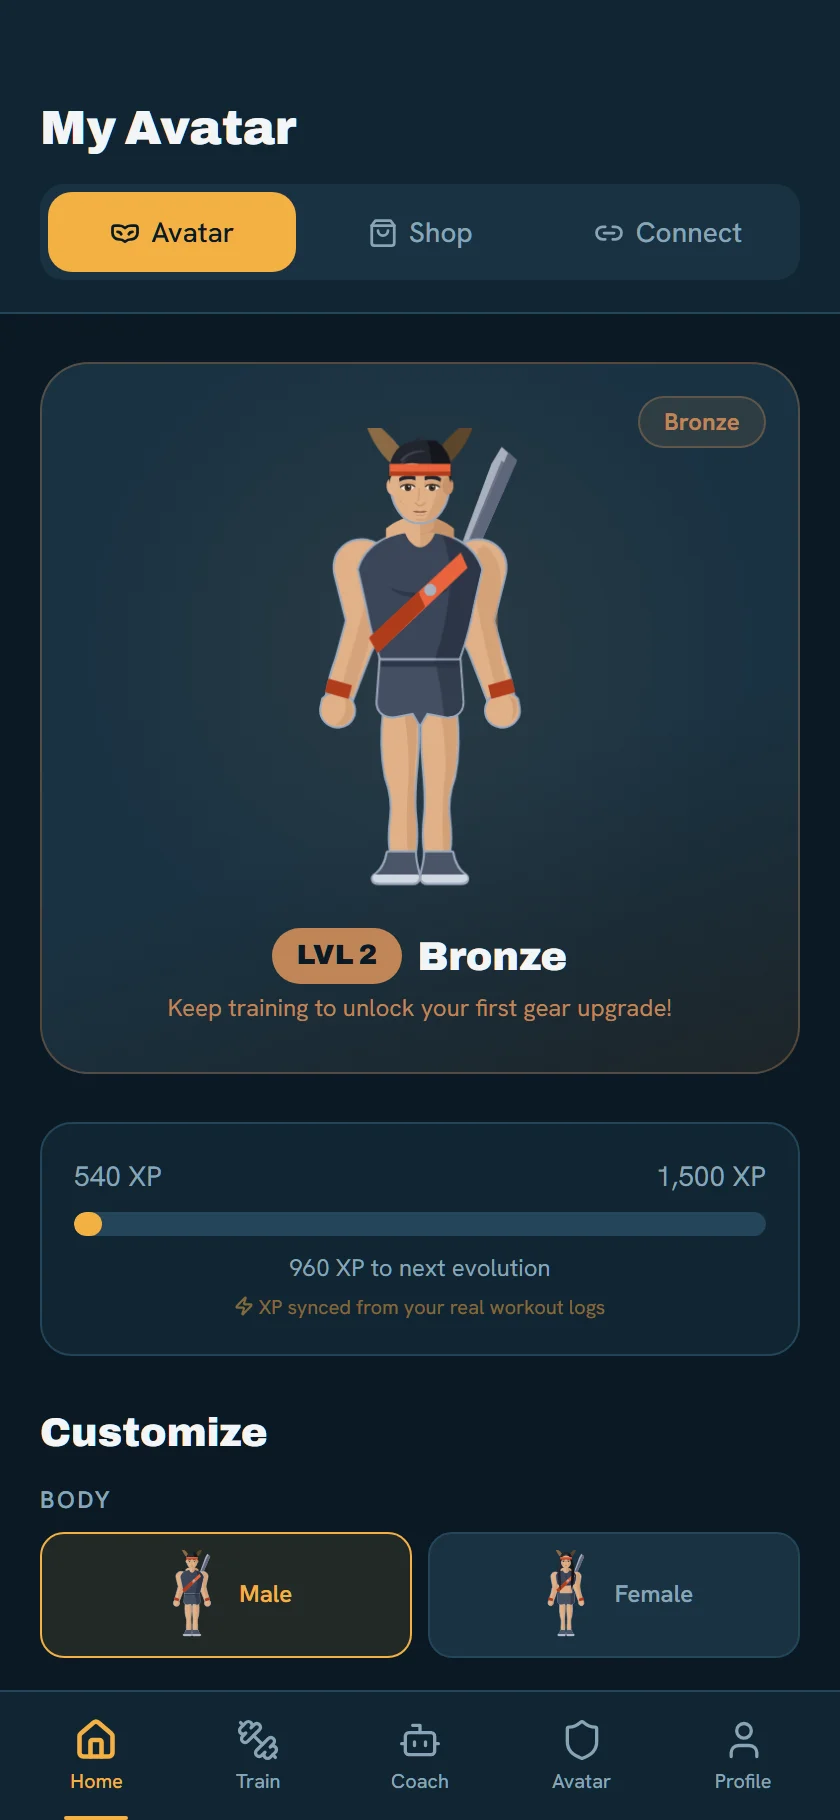
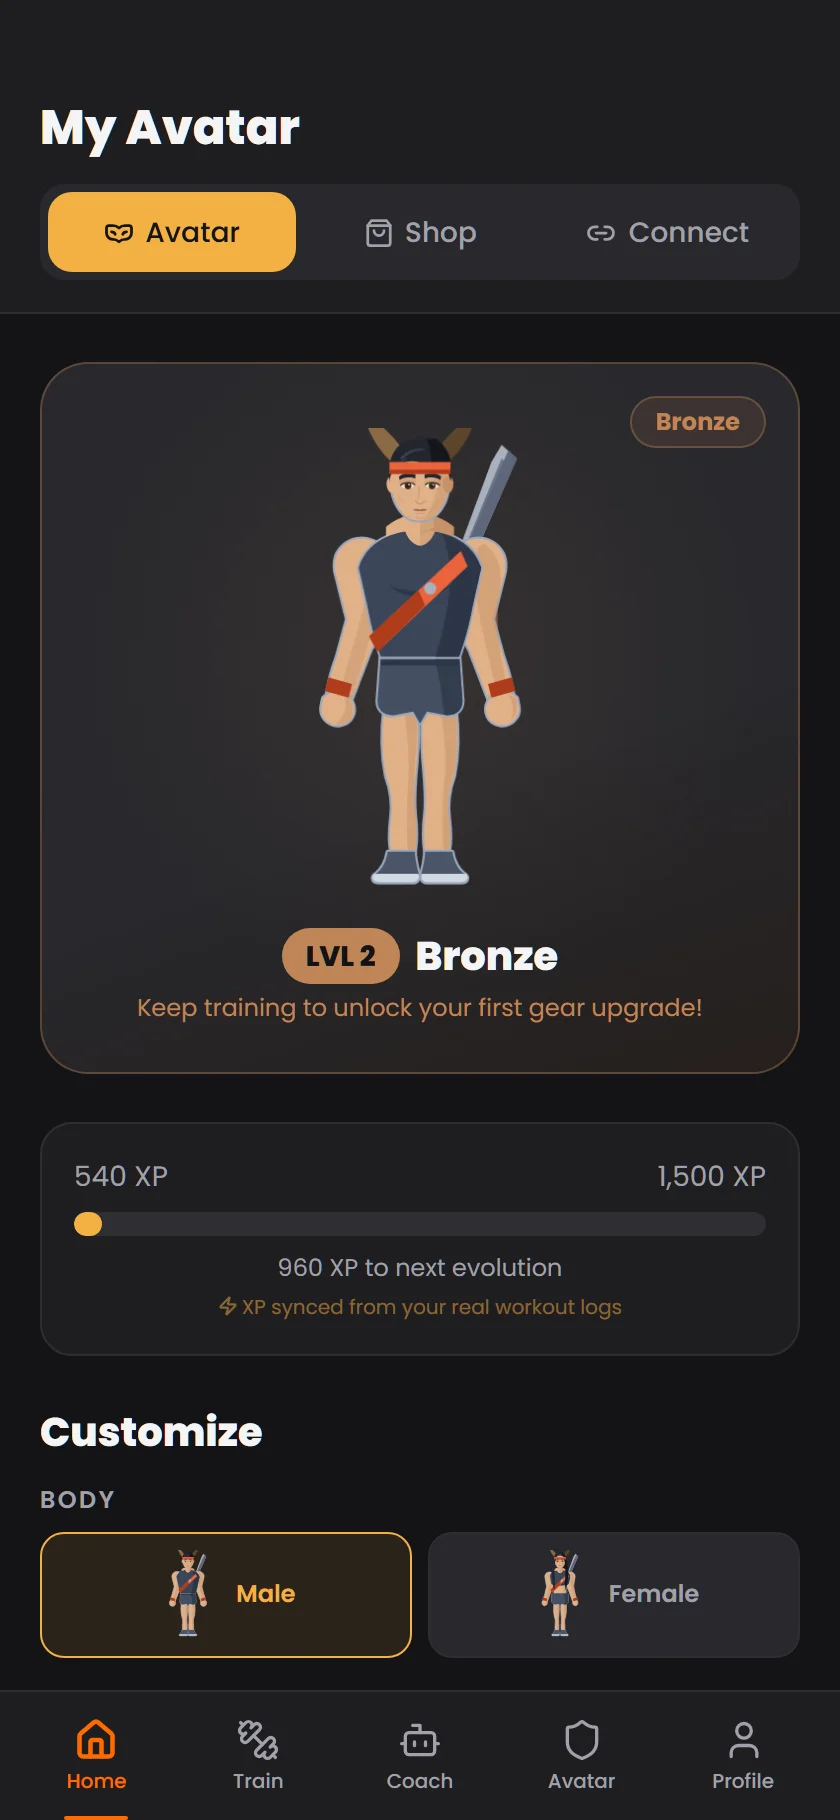
feat: Ignition redesign for the marketing site
Direction A ("Ignition"), shared with the app (plan: app repo
docs/IGNITION_ROLLOUT.md).

- Tokens: charcoal grounds, orange heat, a red accent and the action
  gradient; gold stays #F4B044 for XP and figures. Ratios recorded in
  tokens.css; all pass AA on every ground.
- Type: self-hosted Poppins (latin subset, 400 to 800) replaces Archivo
  and Hanken Grotesk; headings move to sentence case. CSP and GDPR
  posture unchanged.
- Primary calls to action use .gf-cta (white on the gradient, 4.8:1).
- Hero: the app screenshot is replaced by the avatar inside its XP
  ring, rendered from the app's own rig, with the workout moments as
  chips. Same copy and calls to action. The orange headline phrase is
  inline-block: the clip-path wipe otherwise clipped its second line.
- public/screens regenerated from the redesigned app.
  capture-screens.mjs waits for the Turnstile token and no longer waits
  for network idle, which the captcha iframe never reaches.
- a11y.spec.ts judges contrast on the settled page: it waits for finite,
  time-based animations (capped at 3s) so a scan landing mid-fade no
  longer flakes (it failed about 1 run in 4 on the home route).
- theme-color and DESIGN.md follow the new system.

Checks: astro check 0 errors, build, Playwright 199 passed / 2 skipped
(WebKit keyboard tests by design), npm audit 0.

diff --git a/src/styles/global.css b/src/styles/global.css
@@ -1,8 +1,12 @@
-/* Self-hosted via @fontsource, bundled by Astro — no third-party font request.
-   Archivo carries a width axis (62-125%), which is what gives the display face
-   its expanded, engineered proportion. */
-@import "@fontsource-variable/archivo/wdth.css";
-@import "@fontsource-variable/hanken-grotesk/wght.css";
+/* Self-hosted via @fontsource, bundled by Astro: no third-party font request,
+   so the CSP and the GDPR posture are unchanged. Ignition sets everything in
+   Poppins, with JetBrains Mono for figures. Only the latin subset of each
+   weight is imported; a weight not listed here falls back to the nearest. */
+@import "@fontsource/poppins/latin-400.css";
+@import "@fontsource/poppins/latin-500.css";
+@import "@fontsource/poppins/latin-600.css";
+@import "@fontsource/poppins/latin-700.css";
+@import "@fontsource/poppins/latin-800.css";
 @import "@fontsource/jetbrains-mono/500.css";
 
 html {
@@ -26,14 +30,23 @@ body {
   -webkit-font-smoothing: antialiased;
 }
 
+/* Ignition headings are sentence case in Poppins 800. The expanded Archivo
+   capitals of the navy system are retired; components that set a short
+   label in caps still do so explicitly with `uppercase`. */
 h1, h2, h3 {
   font-family: var(--font-display);
-  font-weight: 900;
-  font-stretch: 118%;
-  text-transform: uppercase;
+  font-weight: 800;
   letter-spacing: -0.03em;
-  line-height: 0.95;
+  line-height: 1.05;
   text-wrap: balance;
+}
+
+/* The Ignition action gradient for primary calls to action. background-color
+   is the fallback a forced-colors or print context sees. */
+.gf-cta {
+  background-color: var(--color-gf-cta-to);
+  background-image: linear-gradient(110deg, var(--color-gf-cta-from), var(--color-gf-cta-to));
+  color: #FFFFFF;
 }
 
 :focus-visible {
@@ -54,9 +67,9 @@ h1, h2, h3 {
    Motion
 
    Same thesis as the app: GameFit is a fill-and-threshold system, so
-   "fill" is the signature move. Here that means the gold half of the
+   "fill" is the signature move. Here that means the orange half of the
    headline wipes in left to right rather than fading, which is the XP
-   meter applied to type.
+   meter applied to type, and the hero's XP ring draws to its value.
 
    This is a persuade surface, so it gets ONE rehearsed sequence on the
    hero and one stagger on the rank ladder, which is genuinely a list you
@@ -83,6 +96,18 @@ h1, h2, h3 {
     animation: gf-lift 560ms cubic-bezier(0.16, 1, 0.3, 1) both;
     animation-delay: calc(var(--gf-i, 0) * 90ms + 120ms);
   }
+
+  /* Ignition hero. The ring's resting stroke-dashoffset is its real value;
+     this only draws it in from empty, so a blocked animation still shows
+     the right arc. The orbit and the chip float are the ambient layer:
+     slow enough to read as idle, not as a loading state. */
+  @keyframes gf-ring { from { stroke-dashoffset: var(--gf-ring-from); } }
+  @keyframes gf-spin { to { transform: rotate(360deg); } }
+  @keyframes gf-float { 0%, 100% { transform: translateY(0); } 50% { transform: translateY(-8px); } }
+
+  .gf-ring-draw { animation: gf-ring 1.2s cubic-bezier(0.16, 1, 0.3, 1) 400ms both; }
+  .gf-orbit { transform-origin: 220px 220px; animation: gf-spin 80s linear infinite; }
+  .gf-float { animation: gf-float 5s ease-in-out var(--gf-f, 0s) infinite; }
 
   @supports (animation-timeline: view()) {
     .gf-rank-step {

diff --git a/src/styles/tokens.css b/src/styles/tokens.css
@@ -1,23 +1,30 @@
 @import "tailwindcss";
 
 @theme {
-  /* Ratios against --color-gf-bg (#0B1A24), WCAG 2.1:
-     text 16.15 · muted 6.83 · gold 9.38 · ember 5.18 · success 6.08 · error 5.17.
-     All pass AA for body text. Ember measures 3.90 on --color-gf-elevated, so
-     on that surface it is for fills and text >=18px only. */
-  --color-gf-bg: #0B1A24;
-  --color-gf-surface: #112532;
-  --color-gf-elevated: #1A3242;
-  --color-gf-border: #24455A;
-  --color-gf-text: #F2F5F7;
-  --color-gf-muted: #88A5B7;
+  /* Ignition (owner-approved 2026-09-24; app repo docs/IGNITION_ROLLOUT.md).
+     Ratios against --color-gf-bg (#141416), WCAG 2.1: text 16.9 · muted 7.1 ·
+     gold 9.8 · ember 6.5 · slate 8.7 · success 8.1 · error 5.4. All pass AA
+     for body text; on --color-gf-elevated ember is 5.2 and muted 5.7.
+     Same values as the app's dark theme in src/index.css. */
+  --color-gf-bg: #141416;
+  --color-gf-surface: #1E1E21;
+  --color-gf-elevated: #28282C;
+  --color-gf-border: #2E2E33;
+  --color-gf-text: #F5F5F4;
+  --color-gf-muted: #A1A1AA;
   --color-gf-gold: #F4B044;
-  --color-gf-ember: #E0680E;
+  --color-gf-ember: #FF6B00;
+  --color-gf-red: #E53E3E;
   --color-gf-slate: #7FBBD4;
   --color-gf-success: #5FBF7C;
   --color-gf-error: #E5614A;
 
-  /* Rank tier colours — identical to the shipped app's TIER_CONFIG in
+  /* The action gradient. White text is 4.85:1 on the red end and 4.81:1 on
+     the orange end. Primary calls to action only; never destructive. */
+  --color-gf-cta-from: #D92B2B;
+  --color-gf-cta-to: #C8470E;
+
+  /* Rank tier colors — identical to the shipped app's TIER_CONFIG in
      src/components/avatar/tiers.js, so the site's emblems and the product's
      emblems are the same object. Change both together.
      Apex moved off violet (#9664FF), which measured 3.36:1 and failed AA. */
@@ -27,8 +34,8 @@
   --color-tier-platinum: #7FBBD4;
   --color-tier-apex: #E0680E;
 
-  --font-display: "Archivo Variable", ui-sans-serif, system-ui, sans-serif;
-  --font-body: "Hanken Grotesk Variable", ui-sans-serif, system-ui, sans-serif;
+  --font-display: "Poppins", ui-sans-serif, system-ui, sans-serif;
+  --font-body: "Poppins", ui-sans-serif, system-ui, sans-serif;
   --font-mono: "JetBrains Mono", ui-monospace, monospace;
 
   /* Display ceiling lowered from 6.5rem: at 9vw the old hero ran to five lines

diff --git a/tests/a11y.spec.ts b/tests/a11y.spec.ts
@@ -5,6 +5,25 @@ import { ROUTES } from './routes';
 for (const route of ROUTES) {
   test(`${route} has no accessibility violations`, async ({ page }) => {
     await page.goto(route);
+    // Contrast is judged on the settled page. The hero's entrance fades text
+    // in over ~0.6s, and a scan that lands mid-fade reads a partly
+    // transparent paragraph as a contrast failure (seen as a 1-in-4 flake on
+    // the home route). Wait for every finite, time-based animation to finish;
+    // the looping ones (chip float, orbit) move position only and never
+    // change contrast. Scroll-driven animations (the rank ladder) are skipped:
+    // they only finish when scrolled, so waiting on them hangs. Capped at 3s.
+    await page.evaluate(() =>
+      Promise.race([
+        Promise.all(
+          document
+            .getAnimations()
+            .filter((a) => a.timeline === document.timeline)
+            .filter((a) => a.effect?.getTiming().iterations !== Infinity)
+            .map((a) => a.finished.catch(() => undefined)),
+        ),
+        new Promise((resolve) => setTimeout(resolve, 3000)),
+      ]),
+    );
     const results = await new AxeBuilder({ page })
       .withTags(['wcag2a', 'wcag2aa', 'wcag21a', 'wcag21aa'])
       .analyze();

diff --git a/src/islands/FeedbackForm.tsx b/src/islands/FeedbackForm.tsx
@@ -90,7 +90,7 @@ export default function FeedbackForm() {
       {error && <p aria-live="polite" className="text-sm text-gf-error">{error}</p>}
 
       <button type="submit" disabled={state === 'submitting'}
-        className="h-12 w-full rounded-[var(--radius-md)] bg-gf-gold px-6 font-bold text-gf-bg disabled:opacity-60 sm:w-auto">
+        className="gf-cta h-12 w-full rounded-[var(--radius-md)] px-6 font-bold disabled:opacity-60 sm:w-auto">
         {state === 'submitting' ? 'Sending…' : 'Send feedback'}
       </button>
 

diff --git a/src/islands/WaitlistForm.tsx b/src/islands/WaitlistForm.tsx
@@ -87,7 +87,7 @@ export default function WaitlistForm() {
 
       <button
         type="submit" disabled={state === 'submitting'}
-        className="h-12 w-full rounded-[var(--radius-md)] bg-gf-gold px-6 font-bold text-gf-bg disabled:opacity-60 sm:w-auto"
+        className="gf-cta h-12 w-full rounded-[var(--radius-md)] px-6 font-bold disabled:opacity-60 sm:w-auto"
       >
         {state === 'submitting' ? 'Joining…' : 'Join the waitlist'}
       </button>

diff --git a/src/islands/MobileMenu.tsx b/src/islands/MobileMenu.tsx
@@ -87,7 +87,7 @@ export default function MobileMenu({ items }: Props) {
             <a
               href="/beta"
               onClick={() => setOpen(false)}
-              className="mt-4 rounded-md bg-gf-gold px-4 py-4 text-center font-bold text-gf-bg"
+              className="gf-cta mt-4 rounded-md px-4 py-4 text-center font-bold"
             >
               Join waitlist
             </a>

diff --git a/DESIGN.md b/DESIGN.md
@@ -13,7 +13,14 @@ deciding whether to take the founder seriously.
 
 ## 1. Identity
 
-**Name:** Dark RPG Athletic.
+**Name:** Ignition (since 2026-09-24; previously Dark RPG Athletic).
+
+Ignition was chosen by the owner from five style directions and is shared with
+the app; the rollout plan, gates and rollback live in the app repo at
+`docs/IGNITION_ROLLOUT.md`. It is built from two references: the designmd.app
+"Fitness App de Treinos" system (charcoal canvas, red and orange energy,
+progress rings, counters) and Refero's Peloton analysis (one red action color
+on a dark runway).
 
 The product turns exercise into a role-playing game. The design language
 should feel like the interface of a game you'd actually want to play —
@@ -23,10 +30,11 @@ without tipping into neon gamer clichés or looking unserious to an investor.
 Three rules hold that line:
 
 1. **Structure over decoration.** Depth comes from layered flat surfaces and
-   hairline borders. No gradients on backgrounds, no glow, no glassmorphism.
-2. **One accent does the work.** Gold is the brand. It marks the single most
-   important thing in any viewport and nothing else. An interface where
-   everything glows has no emphasis at all.
+   hairline borders. No gradients on backgrounds, no glassmorphism. The one
+   sanctioned glow is the soft red bloom behind the hero's XP ring.
+2. **Heat means act, gold means earned.** The red-to-orange action gradient
+   marks the primary call to action and nothing else; gold marks XP, rewards
+   and key figures. An interface where everything glows has no emphasis.
 3. **Real over illustrated.** Actual product screenshots, actual paper
    citation, actual numbers. No stock photography, no abstract 3D blobs.
 
@@ -41,14 +49,16 @@ is one set of values and no theme switching.
 
 | Token | Value | Role |
 |---|---|---|
-| `--gf-bg` | `#0B1A24` | Page background |
-| `--gf-surface` | `#112532` | Cards, panels |
-| `--gf-elevated` | `#1A3242` | Raised elements, inputs, hover states |
-| `--gf-border` | `#24455A` | Hairline dividers and card edges |
-| `--gf-text` | `#F2F5F7` | Primary text |
-| `--gf-muted` | `#88A5B7` | Secondary text, captions, labels |
-| `--gf-gold` | `#F4B044` | Primary accent, CTAs, key figures, rank |
-| `--gf-ember` | `#E0680E` | Streaks, intensity, "in progress" |
+| `--gf-bg` | `#141416` | Page background (charcoal) |
+| `--gf-surface` | `#1E1E21` | Cards, panels |
+| `--gf-elevated` | `#28282C` | Raised elements, inputs, hover states |
+| `--gf-border` | `#2E2E33` | Hairline dividers and card edges |
+| `--gf-text` | `#F5F5F4` | Primary text |
+| `--gf-muted` | `#A1A1AA` | Secondary text, captions, labels |
+| `--gf-gold` | `#F4B044` | XP, rewards, key figures, rank |
+| `--gf-ember` | `#FF6B00` | Heat: streaks, the headline accent, "in progress" |
+| `--gf-red` | `#E53E3E` | Start of the heat gradient; decorative only |
+| `--gf-cta-from` / `--gf-cta-to` | `#D92B2B` / `#C8470E` | The action gradient, white text |
 | `--gf-slate` | `#7FBBD4` | Tertiary accent, third chart series |
 | `--gf-success` | `#5FBF7C` | Completed states |
 | `--gf-error` | `#E5614A` | Errors, validation failures |
@@ -64,15 +74,17 @@ every route.
 
 | Foreground | on `--gf-bg` | on `--gf-surface` | Body text (needs 4.5) |
 |---|---|---|---|
-| `#F2F5F7` text | **16.15** | 14.37 | Pass |
-| `#F4B044` gold | **9.38** | 8.35 | Pass |
-| `#88A5B7` muted | **6.83** | 6.08 | Pass |
-| `#5FBF7C` success | **7.77** | 6.92 | Pass |
-| `#E0680E` ember | **5.18** | 4.61 | Pass |
+| `#F5F5F4` text | **16.9** | 15.2 | Pass |
+| `#F4B044` gold | **9.8** | 8.8 | Pass |
+| `#A1A1AA` muted | **7.1** | 6.4 | Pass |
+| `#5FBF7C` success | **8.1** | 7.3 | Pass |
+| `#FF6B00` ember | **6.5** | 5.8 | Pass |
+| `#E5614A` error | **5.4** | 4.85 | Pass |
+| White on the action gradient | 4.85 (red end), 4.81 (orange end) | | Pass |
 
-**The ember rule.** `#E0680E` measures 3.90 on `--gf-elevated`. On that surface
-it is for fills and text at 18px or larger only; for smaller ember text on an
-elevated surface, move the text to `--gf-surface` or use `--gf-text`.
+**The ember rule is retired.** The old ember (`#E0680E`) measured 3.90 on
+`--gf-elevated` and was fills-only there. The Ignition orange measures 5.2 on
+that surface, so it is safe as body text on every ground.
 
 **Surface, not page, is the binding ground.** Tier labels and card text render
 on `--gf-surface`, which is lighter than the page. Bronze shipped briefly at
@@ -113,13 +125,15 @@ caught it. Always check the ground the text actually sits on.
 
 | Role | Family | Weights | Notes |
 |---|---|---|---|
-| Display and headings | Archivo Variable | 400–900, width 62–125% | Uppercase, set at 118% width, tracking -0.03em |
-| Body and UI | Hanken Grotesk Variable | 300–800 | Sentence case |
+| Display and headings | Poppins | 800 | Sentence case, tracking -0.03em |
+| Body and UI | Poppins | 400–700 | Sentence case |
 | Figures and code | JetBrains Mono | 500 | Stats, DOI, tabular numbers |
 | Arabic, all roles | Tajawal | 500, 700, 900 | Latin fonts above have no Arabic coverage |
 
-Archivo replaced Barlow Condensed and Hanken Grotesk replaced DM Sans in the
-2026-08-14 token swap. Condensed-uppercase-on-near-black is the most templated
+Ignition (2026-09-24) sets everything in Poppins, the family its reference
+system specifies, and retires Archivo and Hanken Grotesk. Only the latin
+subset of five weights is imported. History: Archivo replaced Barlow Condensed
+and Hanken Grotesk replaced DM Sans in the 2026-08-14 token swap. Condensed-uppercase-on-near-black is the most templated
 look in fitness software; the expanded width axis is what moves the display
 face away from it. DM Sans is additionally a training-data default that shows
 up on a large share of AI-generated sites.
@@ -153,8 +167,12 @@ desktop.
 
 ### 3.3 Rules
 
-- Display headings: Archivo 900 at `font-stretch: 118%`, `text-transform:
-  uppercase`, `letter-spacing: -0.03em`, `line-height: 0.95`.
+- Display headings: Poppins 800, sentence case, `letter-spacing: -0.03em`,
+  `line-height: 1.05`. Short labels that should read as caps set `uppercase`
+  explicitly.
+- A phrase animated with the clip-path wipe (`.gf-hero-fill`) must be
+  `inline-block`. On an inline box that wraps, the clip covers only the first
+  line fragment, and the rest of the phrase disappears.
 - **No eyebrow labels above section titles, and no numbered section
   markers.** Both were removed on 2026-08-14. A tracked uppercase kicker
   above every heading is the most saturated scaffolding pattern on the web;
@@ -298,12 +316,13 @@ blocked script can never leave a blank page.
 
 | Variant | Fill | Text | Border | Use |
 |---|---|---|---|---|
-| Primary | `--gf-gold` | `#0B1A24` | none | One per viewport |
+| Primary | `.gf-cta`: `#D92B2B` to `#C8470E` at 110deg | `#FFFFFF` | none | One per viewport |
 | Secondary | transparent | `--gf-text` | `--gf-border` | Alternate actions |
 | Ghost | transparent | `--gf-text-muted` | none | Tertiary, nav |
 
-Height 48px, horizontal padding `--space-6` (24px), `--radius-md`, Hanken
-Grotesk 700. Hover shifts fill brightness by 8%; focus draws a 2px gold
+Height 48px, horizontal padding `--space-6` (24px), `--radius-md`, Poppins
+700. The primary button uses the `.gf-cta` utility in `global.css`, never an
+inline background, so the gradient and its fallback color stay together. Hover shifts fill brightness by 8%; focus draws a 2px gold
 outline at 2px offset. Minimum touch target is 44×44px everywhere.
 
 ### 7.2 Stat tile
